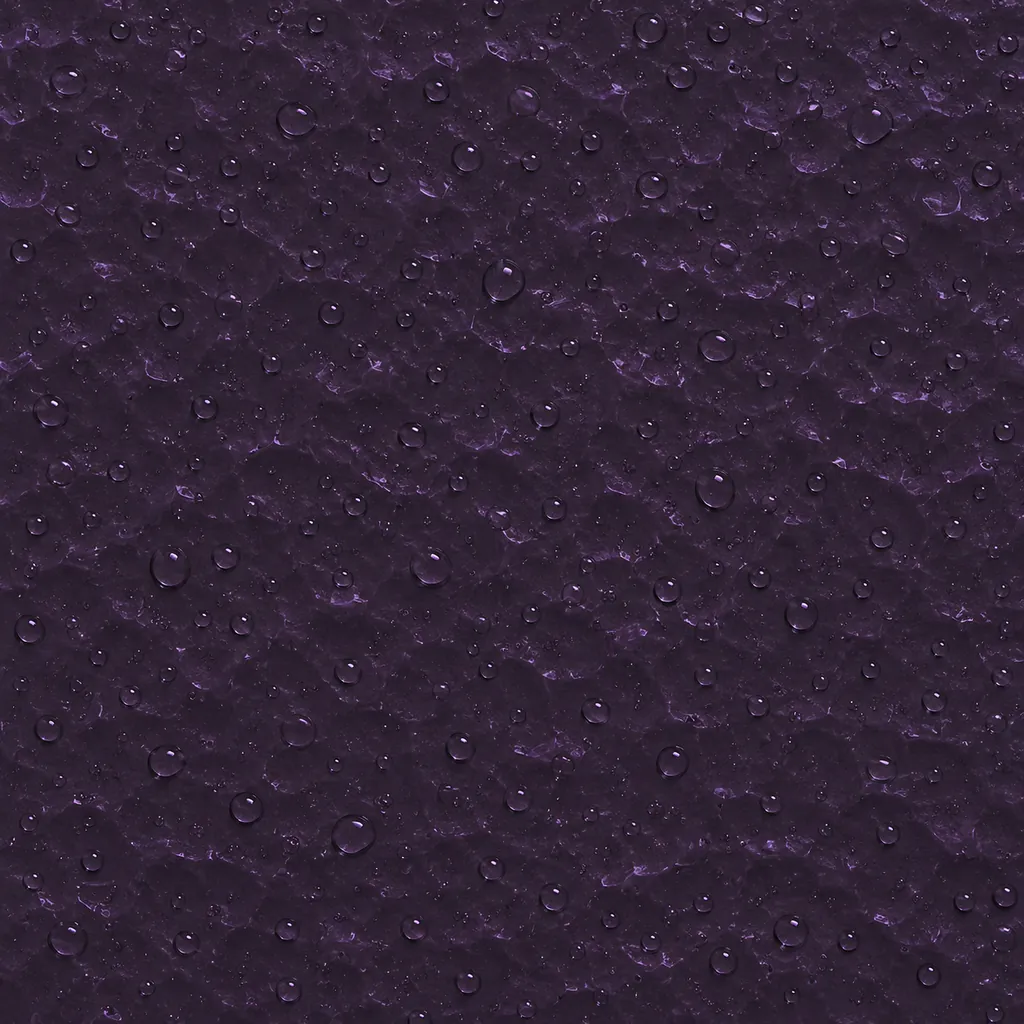
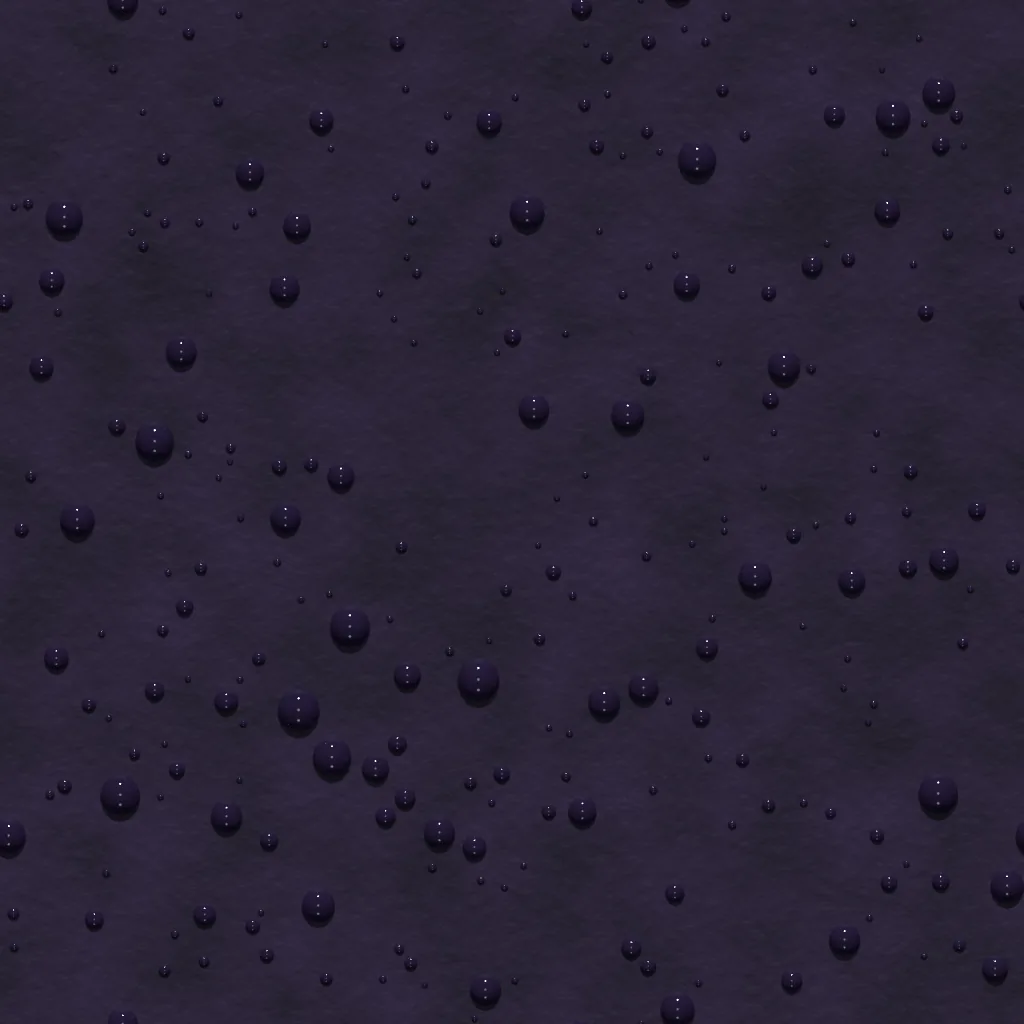
Les parois hydrophile et hydrophobe refaites dans Blender : leur couture disparaît
Symptôme : les deux matières que le joueur apprend à lire montraient leur
couture à chaque répétition (prepare.py --audit du 13/11 : phile 1,8 /
1,6, phobe 2,3 / 2,5) — deux images générées, non périodiques.

Correctif : surfaces.py les dessine dans l'atelier, le raccord par
construction (grain pris sur le tore, huit copies, plaque tenue juste au
carreau : débordante, elle se superposait à ses copies en liseré sombre).
· phile : un émail sarcelle sous un film d'eau. Le soleil de face, renvoyé
  d'aplomb, est le piège de toute matière polie dans cet éclairage ; les
  essais ratés sont notés (grésil gris 0,33, voile gris 0,45, camouflage
  gris et noir) — le reflet est donc TEINTÉ (à demi métallique) et la part
  blanche bridée.
· phobe : une cire violette martelée, et l'eau qui y perle — 260 gouttes
  presque rondes (l'angle de contact d'une surface qui repousse), semées
  en distance périodique, lissées.

Vérification : prepare.py phile phobe — phile luminance 0,18 (0,15
avant ; plafond 0,32), raccord 0,6 / 0,9, 49 Ko (106) ; phobe 0,15
(0,16), raccord 0,8 / 1,0, 28 Ko (100). Aucun chaud. tsc 0 erreur, 1960
tests, construction OK. Pas encore vu en jeu par le concepteur.

diff --git a/tools/images/blender/surfaces.py b/tools/images/blender/surfaces.py
@@ -346,6 +346,128 @@ def cuve(at, rng):
     conduites(at)
 
 
+# ------------------------------------------- les parois hydrophile et hydrophobe
+# Les deux matières que le joueur apprend à lire : l'une ATTIRE l'eau
+# (turquoise, mouillée, brillante — le shader y fait glisser un reflet),
+# l'autre la REPOUSSE (violette, cireuse — l'eau y perle). Les anciennes
+# sortaient du générateur et montraient leur couture (prepare.py --audit du
+# 13/11 : phile 1,8 / 1,6, phobe 2,3 / 2,5) ; ici, tout le grain est pris sur
+# le tore, les perles sont semées en distance PÉRIODIQUE et le carreau a ses
+# huit copies : le raccord vient par construction. Luminance gardée sur les
+# anciennes (0,15 et 0,16) : le shader les assombrit déjà (×0,85 à ×1,1 pour
+# l'une, ×0,75 pour l'autre).
+
+def mat_phile():
+    """une céramique sarcelle sous un film d'eau : des marbrures larges, des
+    pores sombres, une surface polie que le film ride (le relief seul)"""
+    mat = bpy.data.materials.new('phile')
+    nt, N, L = noeuds(mat)
+    out = N.new('ShaderNodeOutputMaterial')
+    b = N.new('ShaderNodeBsdfPrincipled')
+    L.new(b.outputs[0], out.inputs[0])
+    marbre = bruit_tore(nt, 2.5, 2.5, 51, detail=5, rugo=0.55)
+    c = melange(nt, rampe(nt, marbre, 0.3, 0.75), lin((0x03, 0x17, 0x1a)), lin((0x09, 0x34, 0x38)))
+    pores = bruit_tore(nt, 70, 70, 52, detail=4, rugo=0.6)
+    c = melange(nt, op(nt, 'MULTIPLY', rampe(nt, pores, 0.64, 0.72), 0.5), c, lin((0x02, 0x0e, 0x12)))
+    L.new(c, b.inputs['Base Color'])
+    # LE FILM D'EAU : des vagues franches sous un poli de miroir — seules
+    # les crêtes tournées vers la caméra renvoient le soleil de face, en
+    # éclats, et le reste plonge dans le sarcelle. Un frisson fin renvoyait
+    # ce soleil en grésil gris (essai 1, 0,33 de luminance) ; un film doux à
+    # demi poli, en voile gris uniforme (essai 2, 0,31) ; des vagues trop
+    # fouillées (six octaves), en granit pailleté (essai 3)
+    b.inputs['Roughness'].default_value = 0.1
+    # (et des pentes trop raides, en pluie d'éclats, essai 4 ; trop douces,
+    # le soleil de face se mirait partout : 0,45, essai 5). Le soleil de
+    # face, renvoyé d'aplomb, est le piège de toute matière polie ici : un
+    # reflet blanc sur des pentes moyennes faisait un camouflage gris et
+    # noir (essai 6). Le reflet est donc TEINTÉ (à demi métallique, comme
+    # un émail) : là où le film regarde la caméra, il luit sarcelle
+    b.inputs['Metallic'].default_value = 0.7
+    b.inputs['Roughness'].default_value = 0.16
+    # la part non métallique renvoie du blanc : bridée, sinon la luminance
+    # restait à 0,23 quelle que soit la teinte (essai 8)
+    for nom in ('Specular IOR Level', 'Specular'):
+        if nom in b.inputs:
+            b.inputs[nom].default_value = 0.12
+            break
+    rides = bruit_tore(nt, 2.5, 2.5, 53, detail=1.5, rugo=0.35)
+    bump = N.new('ShaderNodeBump')
+    bump.inputs['Strength'].default_value = 1.0
+    bump.inputs['Distance'].default_value = 0.008
+    L.new(rides, bump.inputs['Height'])
+    L.new(bump.outputs['Normal'], b.inputs['Normal'])
+    return mat
+
+
+def mat_phobe():
+    """une cire violette : mate, une peau d'orange fine, des voiles plus
+    clairs là où la couche est épaisse"""
+    mat = bpy.data.materials.new('phobe')
+    nt, N, L = noeuds(mat)
+    out = N.new('ShaderNodeOutputMaterial')
+    b = N.new('ShaderNodeBsdfPrincipled')
+    L.new(b.outputs[0], out.inputs[0])
+    voile = bruit_tore(nt, 2.0, 2.0, 61, detail=4, rugo=0.5)
+    c = melange(nt, rampe(nt, voile, 0.3, 0.75), lin((0x26, 0x17, 0x34)), lin((0x4a, 0x30, 0x5e)))
+    L.new(c, b.inputs['Base Color'])
+    b.inputs['Roughness'].default_value = 0.55
+    # un martelé large (la cire coulée en couche inégale) et une peau
+    # d'orange fine dessus
+    martele = bruit_tore(nt, 14, 14, 63, detail=2, rugo=0.4)
+    peau = bruit_tore(nt, 55, 55, 62, detail=3, rugo=0.5)
+    bump = N.new('ShaderNodeBump')
+    bump.inputs['Strength'].default_value = 0.5
+    bump.inputs['Distance'].default_value = 0.003
+    L.new(op(nt, 'ADD', martele, op(nt, 'MULTIPLY', peau, 0.3)), bump.inputs['Height'])
+    L.new(bump.outputs['Normal'], b.inputs['Normal'])
+    return mat
+
+
+def bati_phile(at, rng):
+    # la plaque tient JUSTE le carreau : débordant de 0,01, elle se
+    # superposait à ses copies et le bord sortait en liseré sombre (essai 1)
+    at.boite('phile', 0.0, 1.0, 0.0, 1.0, 0.0, FOND_Y, 0)
+
+
+def perles(rng, n, rmin, rmax, essais=6000):
+    """des perles qui ne se touchent pas, semées en distance PÉRIODIQUE (une
+    perle au bord se mesure aussi à celles de l'autre bord) — la plupart
+    petites, quelques grosses (une loi en puissance sur le rayon)"""
+    pts = []
+    for _ in range(essais):
+        if len(pts) >= n:
+            break
+        x, z = rng.random(), rng.random()
+        r = rmin + (rmax - rmin) * rng.random() ** 3
+        ok = True
+        for (a, c, q) in pts:
+            dx = min(abs(x - a), 1 - abs(x - a))
+            dz = min(abs(z - c), 1 - abs(z - c))
+            if dx * dx + dz * dz < (r + q + 0.004) ** 2:
+                ok = False
+                break
+        if ok:
+            pts.append((x, z, r))
+    return pts
+
+
+def bati_phobe(at, rng):
+    at.boite('phobe', 0.0, 1.0, 0.0, 1.0, 0.0, FOND_Y, 0)
+    # l'eau perle : des gouttes presque rondes (l'angle de contact d'une
+    # surface qui repousse), posées sur la cire
+    for (x, z, r) in perles(rng, 260, 0.0035, 0.022):
+        at.dome('goutte', x, z, r, 0.0, 0, aplati=0.75)
+
+
+def gouttes_lisses(C, mats):
+    """les gouttes en facettes de dix sur six se lisaient comme des clous :
+    lissées, elles prennent un reflet rond"""
+    for ob in C.objects:
+        if ob.name.endswith('goutte'):
+            ob.data.polygons.foreach_set('use_smooth', [True] * len(ob.data.polygons))
+
+
 def surfaces():
     vide_scene()
     PIECES.clear()
@@ -377,5 +499,12 @@ def surfaces():
     mats_cuve['trait'] = mat_simple('trait', (0x2c, 0x5a, 0x6a), rug=0.6)
     mats_cuve['eteint'] = mat_simple('eteint', (0x0c, 0x18, 0x1a), rug=0.3)
     carreau(sc, mats_cuve, 'tank-bg', cuve, extra=marquage)
+    mats['phile'] = mat_phile()
+    carreau(sc, mats, 'phile', bati_phile)
+    mats['phobe'] = mat_phobe()
+    # la goutte : une eau claire teintée par la cire dessous, polie — c'est
+    # son reflet qui la dessine
+    mats['goutte'] = mat_simple('goutte', (0x3c, 0x2c, 0x52), rug=0.04)
+    carreau(sc, mats, 'phobe', bati_phobe, extra=gouttes_lisses)
     lumiere_camera(sc)
     sc.cycles.device = 'GPU'

diff --git a/docs/assets-ia.md b/docs/assets-ia.md
@@ -110,6 +110,9 @@ join, in the exact style of the attached reference (wall-a.webp)
 Négatif : négatif commun + `rust, strong highlights, panel border, frame`
 
 ## 6. Texture paroi hydrophobe
+
+> ✅ **Redessinée dans Blender le 13/11** (`tools/images/blender/surfaces.py`, `mat_phobe`) :
+> une cire violette martelée où l'eau perle (260 gouttes semées en distance périodique) — luminance 0,15, raccord 0,8 / 1,0 (2,3 / 2,5 avant), 28 Ko. Le prompt ci-dessous reste pour mémoire.
 **512×512 · PNG · tileable**
 
 ```
@@ -121,6 +124,9 @@ perfect tiling, no text
 Négatif : `wet film, puddles, bright purple, glitter, text`
 
 ## 7. Texture paroi hydrophile
+
+> ✅ **Redessinée dans Blender le 13/11** (`tools/images/blender/surfaces.py`, `mat_phile`) :
+> un émail sarcelle sous un film d'eau, reflet teinté à demi métallique — luminance 0,18, raccord 0,6 / 0,9 (1,8 / 1,6 avant), 49 Ko. Le prompt ci-dessous reste pour mémoire.
 **512×512 · PNG · tileable**
 
 ```
